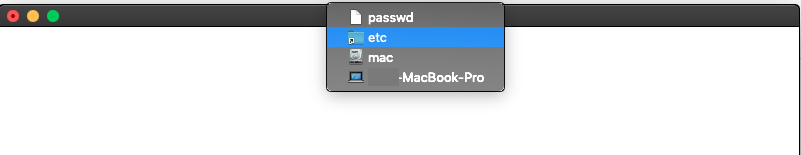
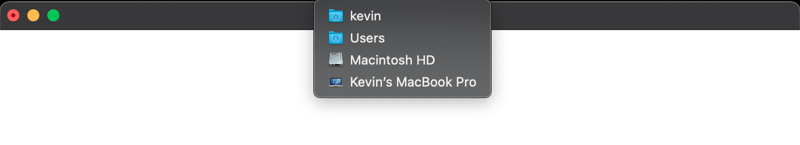
docs: Update represented-file fiddle tutorial (#29245)
* Update represented-file fiddle.

* add index and code back to guide

Changed region(s): [[0.0, 0.0, 1.0, 0.7448]]

diff --git a/docs/fiddles/features/represented-file/index.html b/docs/fiddles/features/represented-file/index.html
@@ -4,13 +4,14 @@
     <meta charset="UTF-8">
     <title>Hello World!</title>
     <meta http-equiv="Content-Security-Policy" content="script-src 'self' 'unsafe-inline';" />
+    <link rel="stylesheet" type="text/css" href="./styles.css">
 </head>
 <body>
     <h1>Hello World!</h1>
     <p>
-        We are using node <script>document.write(process.versions.node)</script>,
-        Chrome <script>document.write(process.versions.chrome)</script>,
-        and Electron <script>document.write(process.versions.electron)</script>.
+      Click on the title with the <pre>Command</pre> or <pre>Control</pre> key pressed.
+      You should see a popup with the represented file at the top.
     </p>
+  </body>
 </body>
 </html>

diff --git a/docs/fiddles/features/represented-file/main.js b/docs/fiddles/features/represented-file/main.js
@@ -4,10 +4,7 @@ const os = require('os');
 function createWindow () {
   const win = new BrowserWindow({
     width: 800,
-    height: 600,
-    webPreferences: {
-      nodeIntegration: true
-    }
+    height: 600
   })
 
   win.loadFile('index.html')

diff --git a/docs/tutorial/represented-file.md b/docs/tutorial/represented-file.md
@@ -20,23 +20,40 @@ To set the represented file of window, you can use the
 
 ## Example
 
-Starting with a working application from the
-[Quick Start Guide](quick-start.md), add the following lines to the
-`main.js` file:
-
 ```javascript fiddle='docs/fiddles/features/represented-file'
 const { app, BrowserWindow } = require('electron')
+const os = require('os');
+
+function createWindow () {
+  const win = new BrowserWindow({
+    width: 800,
+    height: 600
+  })
+}
 
 app.whenReady().then(() => {
   const win = new BrowserWindow()
 
-  win.setRepresentedFilename('/etc/passwd')
+  win.setRepresentedFilename(os.homedir())
   win.setDocumentEdited(true)
+})
+
+app.on('window-all-closed', () => {
+  if (process.platform !== 'darwin') {
+    app.quit()
+  }
+})
+
+app.on('activate', () => {
+  if (BrowserWindow.getAllWindows().length === 0) {
+    createWindow()
+  }
 })
 ```
 
 After launching the Electron application, click on the title with `Command` or
-`Control` key pressed. You should see a popup with the file you just defined:
+`Control` key pressed. You should see a popup with the represented file at the top.
+In this guide, this is the current user's home directory:
 
 ![Represented file](../images/represented-file.png)
 
